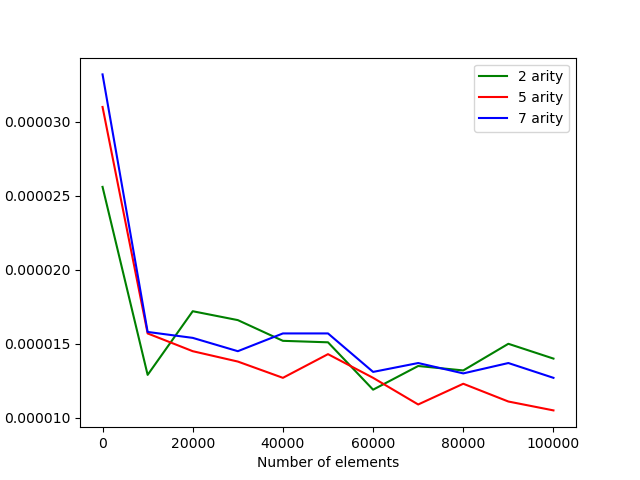
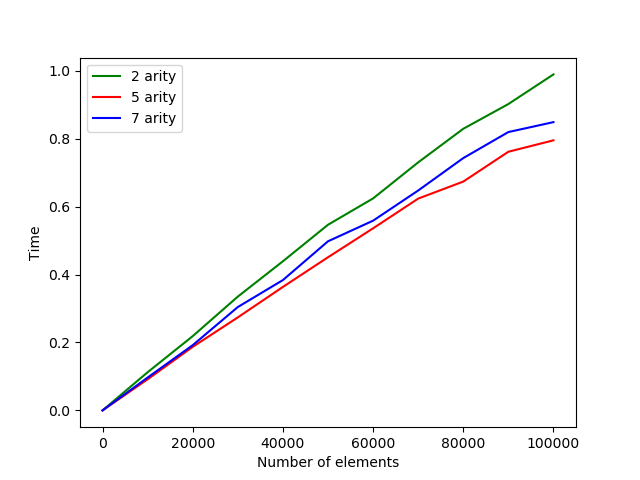
fixed pop times charts

diff --git a/create_plots.py b/create_plots.py
@@ -20,18 +20,17 @@ def create_heap(arity, collection_to_use:list):
     return my_heap
 
 
-def measure_removal_time(heap:Heap) -> list:
-    del_times = []
+def measure_removal_time(heap:Heap, n_of_pops:int) -> list:
     gc_old = gc.isenabled()
     gc.disable()
-    for _ in range(0, 100001, 10000):
-        start = time.process_time()
+    start = time.process_time()
+    for _ in range(n_of_pops + 1):
         heap.pop()
-        stop = time.process_time()
-        del_times.append(stop - start)
+    stop = time.process_time()
     if gc_old:
         gc.enable()
-    return del_times
+    removal_time = stop - start
+    return removal_time
 
 def measure_creation_time(arity, collection:list) -> int:
     if len(collection) == 0:
@@ -72,12 +71,24 @@ def create_heap_figures(entry_list:list):
             if c_arity == 7:
                 time_to_create_7_arity.append(heap_times)
 
-    my_heap = create_heap(2, entry_list)
-    time_to_remove_2_arity = measure_removal_time(my_heap)
-    my_heap = create_heap(5, entry_list)
-    time_to_remove_5_arity = measure_removal_time(my_heap)
-    my_heap = create_heap(7, entry_list)
-    time_to_remove_7_arity = measure_removal_time(my_heap)
+    for n in range(0, 100001, 10000):
+        if n == 0:
+            time_to_remove_2_arity.append(0)
+        else:
+            my_heap = create_heap(2, entry_list)
+            time_to_remove_2_arity.append(measure_removal_time(my_heap, n))
+    for n in range(0, 100001, 10000):
+        if n == 0:
+            time_to_remove_5_arity.append(0)
+        else:
+            my_heap = create_heap(5, entry_list)
+            time_to_remove_5_arity.append(measure_removal_time(my_heap, n))
+    for n in range(0, 100001, 10000):
+        if n == 0:
+            time_to_remove_7_arity.append(0)
+        else:
+            my_heap = create_heap(7, entry_list)
+            time_to_remove_7_arity.append(measure_removal_time(my_heap, n))
 
     # creation plots
     plt.plot(n_tested[:11], time_to_create_2_arity, color = 'g', label = "2 arity")
